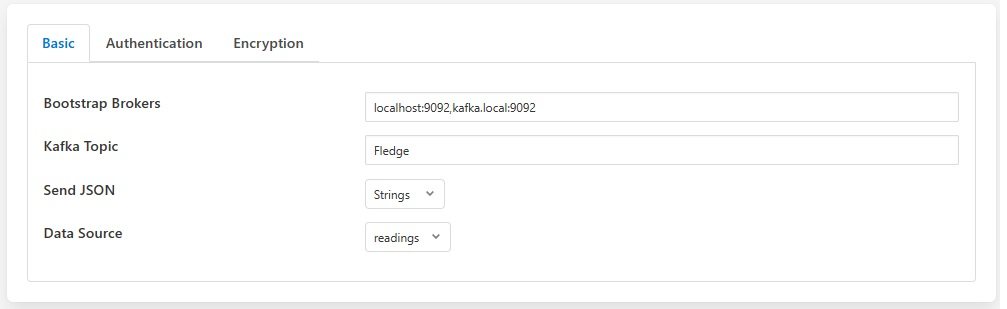
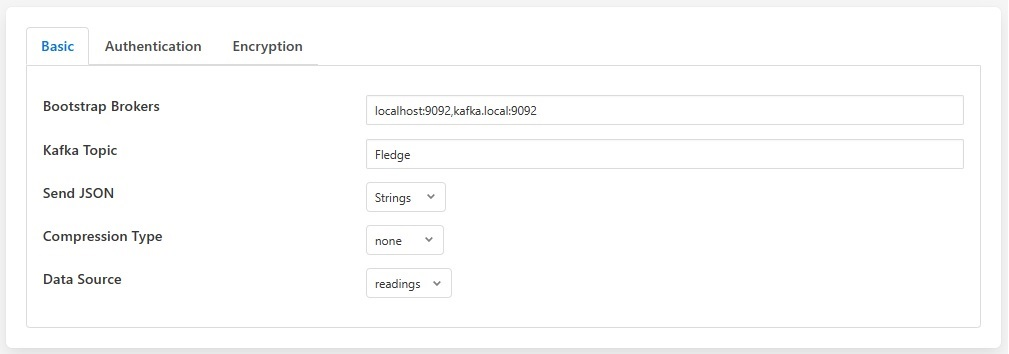
FOGL-7966 : Added compression support

diff --git a/plugin.cpp b/plugin.cpp
@@ -55,11 +55,19 @@ static const char *default_config = QUOTE({
 		"displayName": "Send JSON",
 		"options" : ["Objects","Strings"]
 		},
+	"compression": {
+		"description": "Type of compression codec to be used before sending data to kafka broker",
+		"type": "enumeration",
+		"default": "none",
+		"order": "4",
+		"displayName": "Compression Type",
+		"options" : ["none","gzip","snappy","lz4"]
+		},
 	"KafkaSecurityProtocol": {
 		"description": "Security protocol to be used to connect to kafka broker",
 		"type": "enumeration",
 		"default": "PLAINTEXT",
-		"order": "4",
+		"order": "5",
 		"group": "Authentication",
 		"displayName": "Security Protocol",
 		"options" : ["PLAINTEXT", "SASL_PLAINTEXT", "SSL", "SASL_SSL"]
@@ -68,7 +76,7 @@ static const char *default_config = QUOTE({
 		"description": "Authentication mechanism to be used to connect to kafka broker",
 		"type": "enumeration",
 		"default": "PLAIN",
-		"order": "5",
+		"order": "6",
 		"group": "Authentication",
 		"displayName": "SASL Mechanism",
 		"options" : ["PLAIN"],
@@ -78,7 +86,7 @@ static const char *default_config = QUOTE({
 		"description": "User ID to be used with SASL_PLAINTEXT security protocol",
 		"type": "string",
 		"default": "user",
-		"order": "6",
+		"order": "7",
 		"group": "Authentication",
 		"displayName": "User ID",
 		"validity" : "KafkaSecurityProtocol == \"SASL_PLAINTEXT\" || KafkaSecurityProtocol == \"SASL_SSL\""
@@ -87,7 +95,7 @@ static const char *default_config = QUOTE({
 		"description": "Password to be used with SASL_PLAINTEXT security protocol",
 		"type": "password",
 		"default": "pass",
-		"order": "7",
+		"order": "8",
 		"group": "Authentication",
 		"displayName": "Password",
 		"validity" : "KafkaSecurityProtocol == \"SASL_PLAINTEXT\" || KafkaSecurityProtocol == \"SASL_SSL\""
@@ -96,7 +104,7 @@ static const char *default_config = QUOTE({
 		"description": "Name of the root certificate authority that will be used to verify the certificate",
 		"type": "string",
 		"default": "",
-		"order": "8",
+		"order": "9",
 		"displayName": "Root CA Name",
 		"validity": "KafkaSecurityProtocol == \"SSL\" || KafkaSecurityProtocol == \"SASL_SSL\"",
 		"group": "Encryption"
@@ -105,7 +113,7 @@ static const char *default_config = QUOTE({
 		"description": "Name of client certificate for identity authentications",
 		"type": "string",
 		"default": "",
-		"order": "9",
+		"order": "10",
 		"displayName": "Certificate Name",
 		"validity": "KafkaSecurityProtocol == \"SSL\" || KafkaSecurityProtocol == \"SASL_SSL\"",
 		"group": "Encryption"
@@ -114,7 +122,7 @@ static const char *default_config = QUOTE({
 		"description": "Name of client private key required for communication",
 		"type": "string",
 		"default": "",
-		"order": "10",
+		"order": "11",
 		"displayName": "Private Key Name",
 		"validity": "KafkaSecurityProtocol == \"SSL\" || KafkaSecurityProtocol == \"SASL_SSL\"",
 		"group": "Encryption"
@@ -123,7 +131,7 @@ static const char *default_config = QUOTE({
 		"description": "Optional: Password to be used when loading the certificate chain",
 		"type": "password",
 		"default": "",
-		"order": "11",
+		"order": "12",
 		"displayName": "Certificate Password",
 		"validity": "KafkaSecurityProtocol == \"SSL\" || KafkaSecurityProtocol == \"SASL_SSL\"",
 		"group": "Encryption"
@@ -132,7 +140,7 @@ static const char *default_config = QUOTE({
 		"description": "The source of data to send",
 		"type": "enumeration",
 		"default": "readings",
-		"order": "12",
+		"order": "13",
 		"displayName": "Data Source",
 		"options" : ["readings","statistics"]
 		}

diff --git a/kafka.cpp b/kafka.cpp
@@ -191,6 +191,12 @@ void Kafka::applyConfig_Basic(ConfigCategory*& configData)
 		throw exception();
 	}
 
+	if (rd_kafka_conf_set(m_conf, "compression.codec", configData->getValue("compression").c_str(),
+                              errstr, sizeof(errstr)) != RD_KAFKA_CONF_OK)
+	{
+		Logger::getLogger()->fatal(errstr);
+	}
+
 	// Set the error callback function
 	rd_kafka_conf_set_error_cb(m_conf, error_cb);
 }

diff --git a/docs/index.rst b/docs/index.rst
@@ -20,6 +20,8 @@ The configuration of the *Kafka* plugin is very simple, consisting of four param
 
   - **Send JSON**: This controls how JSON data points should be sent to Kafka. These may be sent as strings or as JSON objects.
 
+  - **Compression Type**: Type of compression codec to be used before sending data to kafka broker. Supported compression types are gzip, snappy and lz4. Default value is none.
+
   - **Data Source**: Which Fledge data to send to Kafka; Readings or Fledge Statistics.
 
 +-----------+
